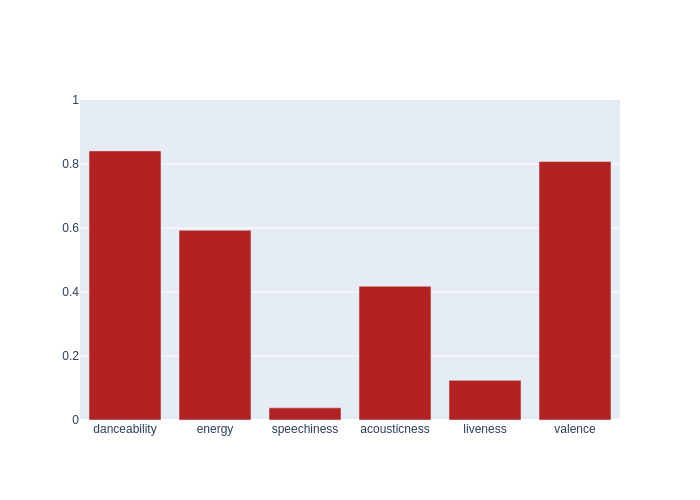
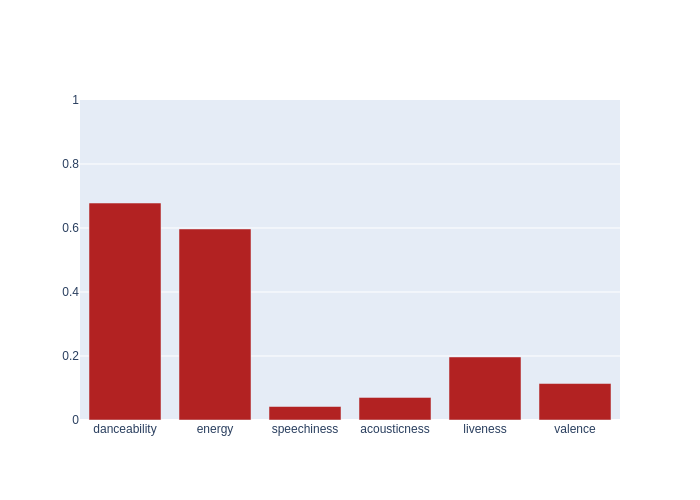
Automated README update

diff --git a/README.md b/README.md
@@ -4,7 +4,7 @@ Automated music metrics for fun, updated hourly.
 
 ## Spotify
 
-- currently listening to **Travis Scott - Goosebumps - Remix**
+- currently listening to **Black Atlass - Sin City**
 
 - **844** liked songs
 - **130** playlists
